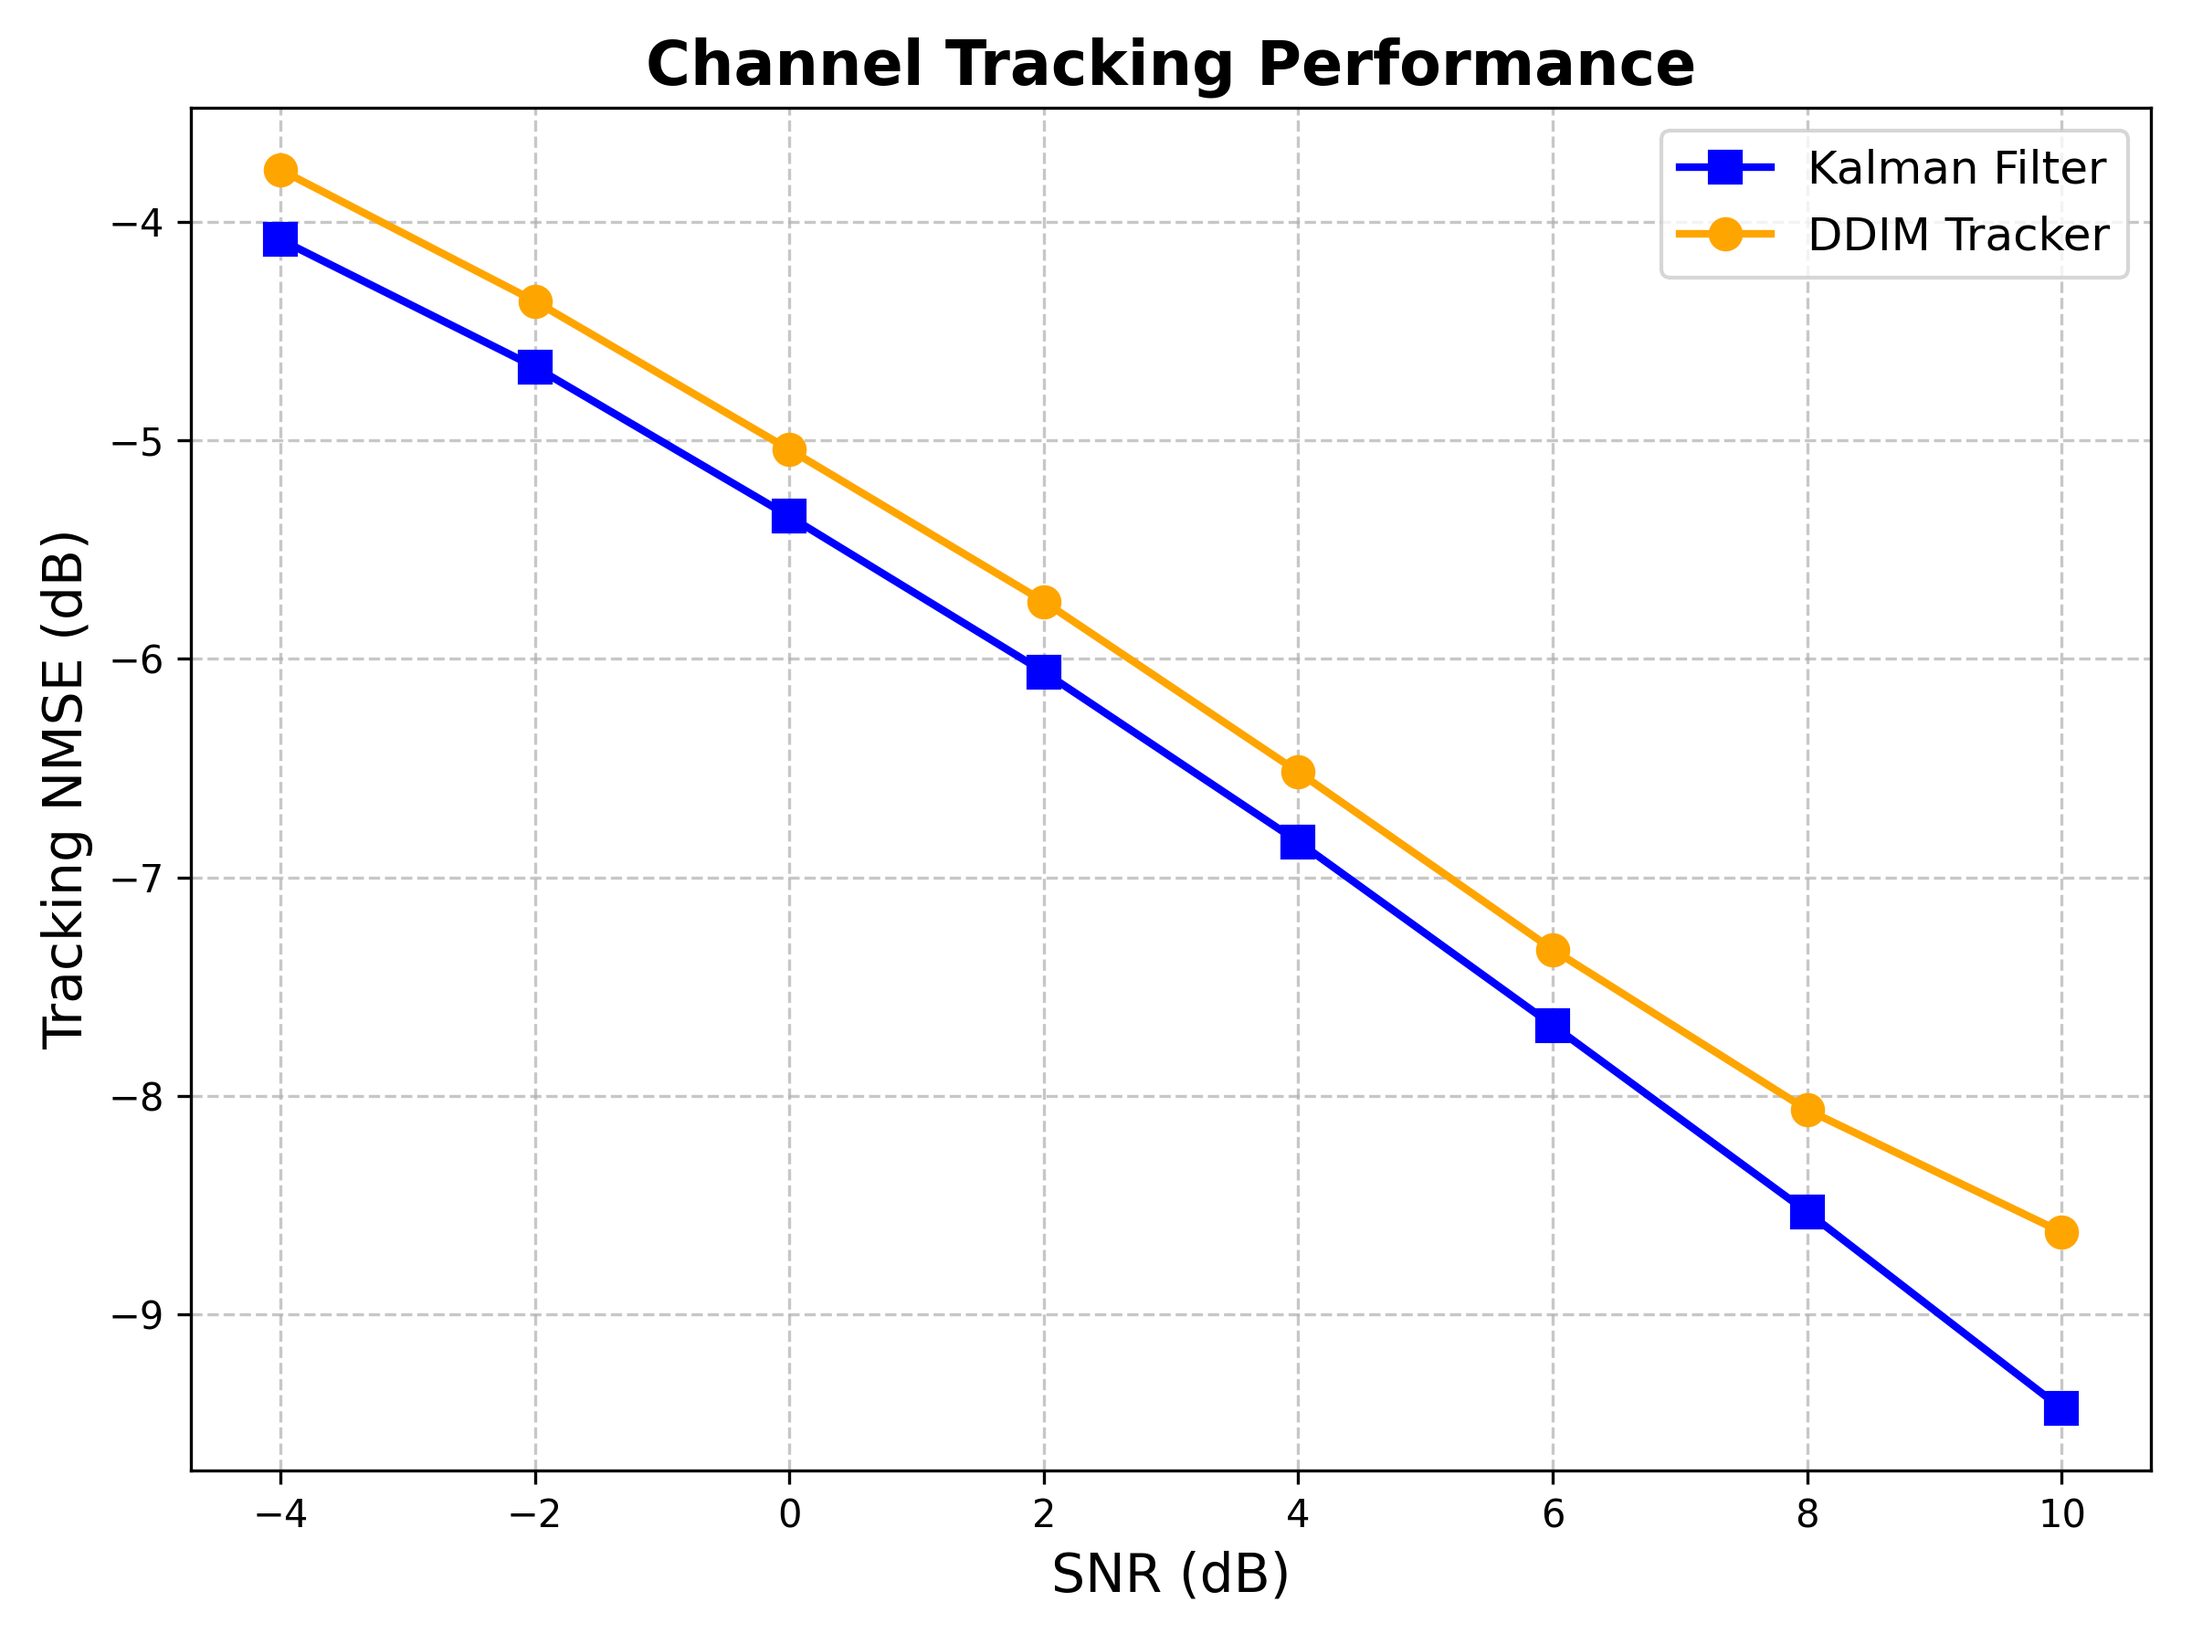
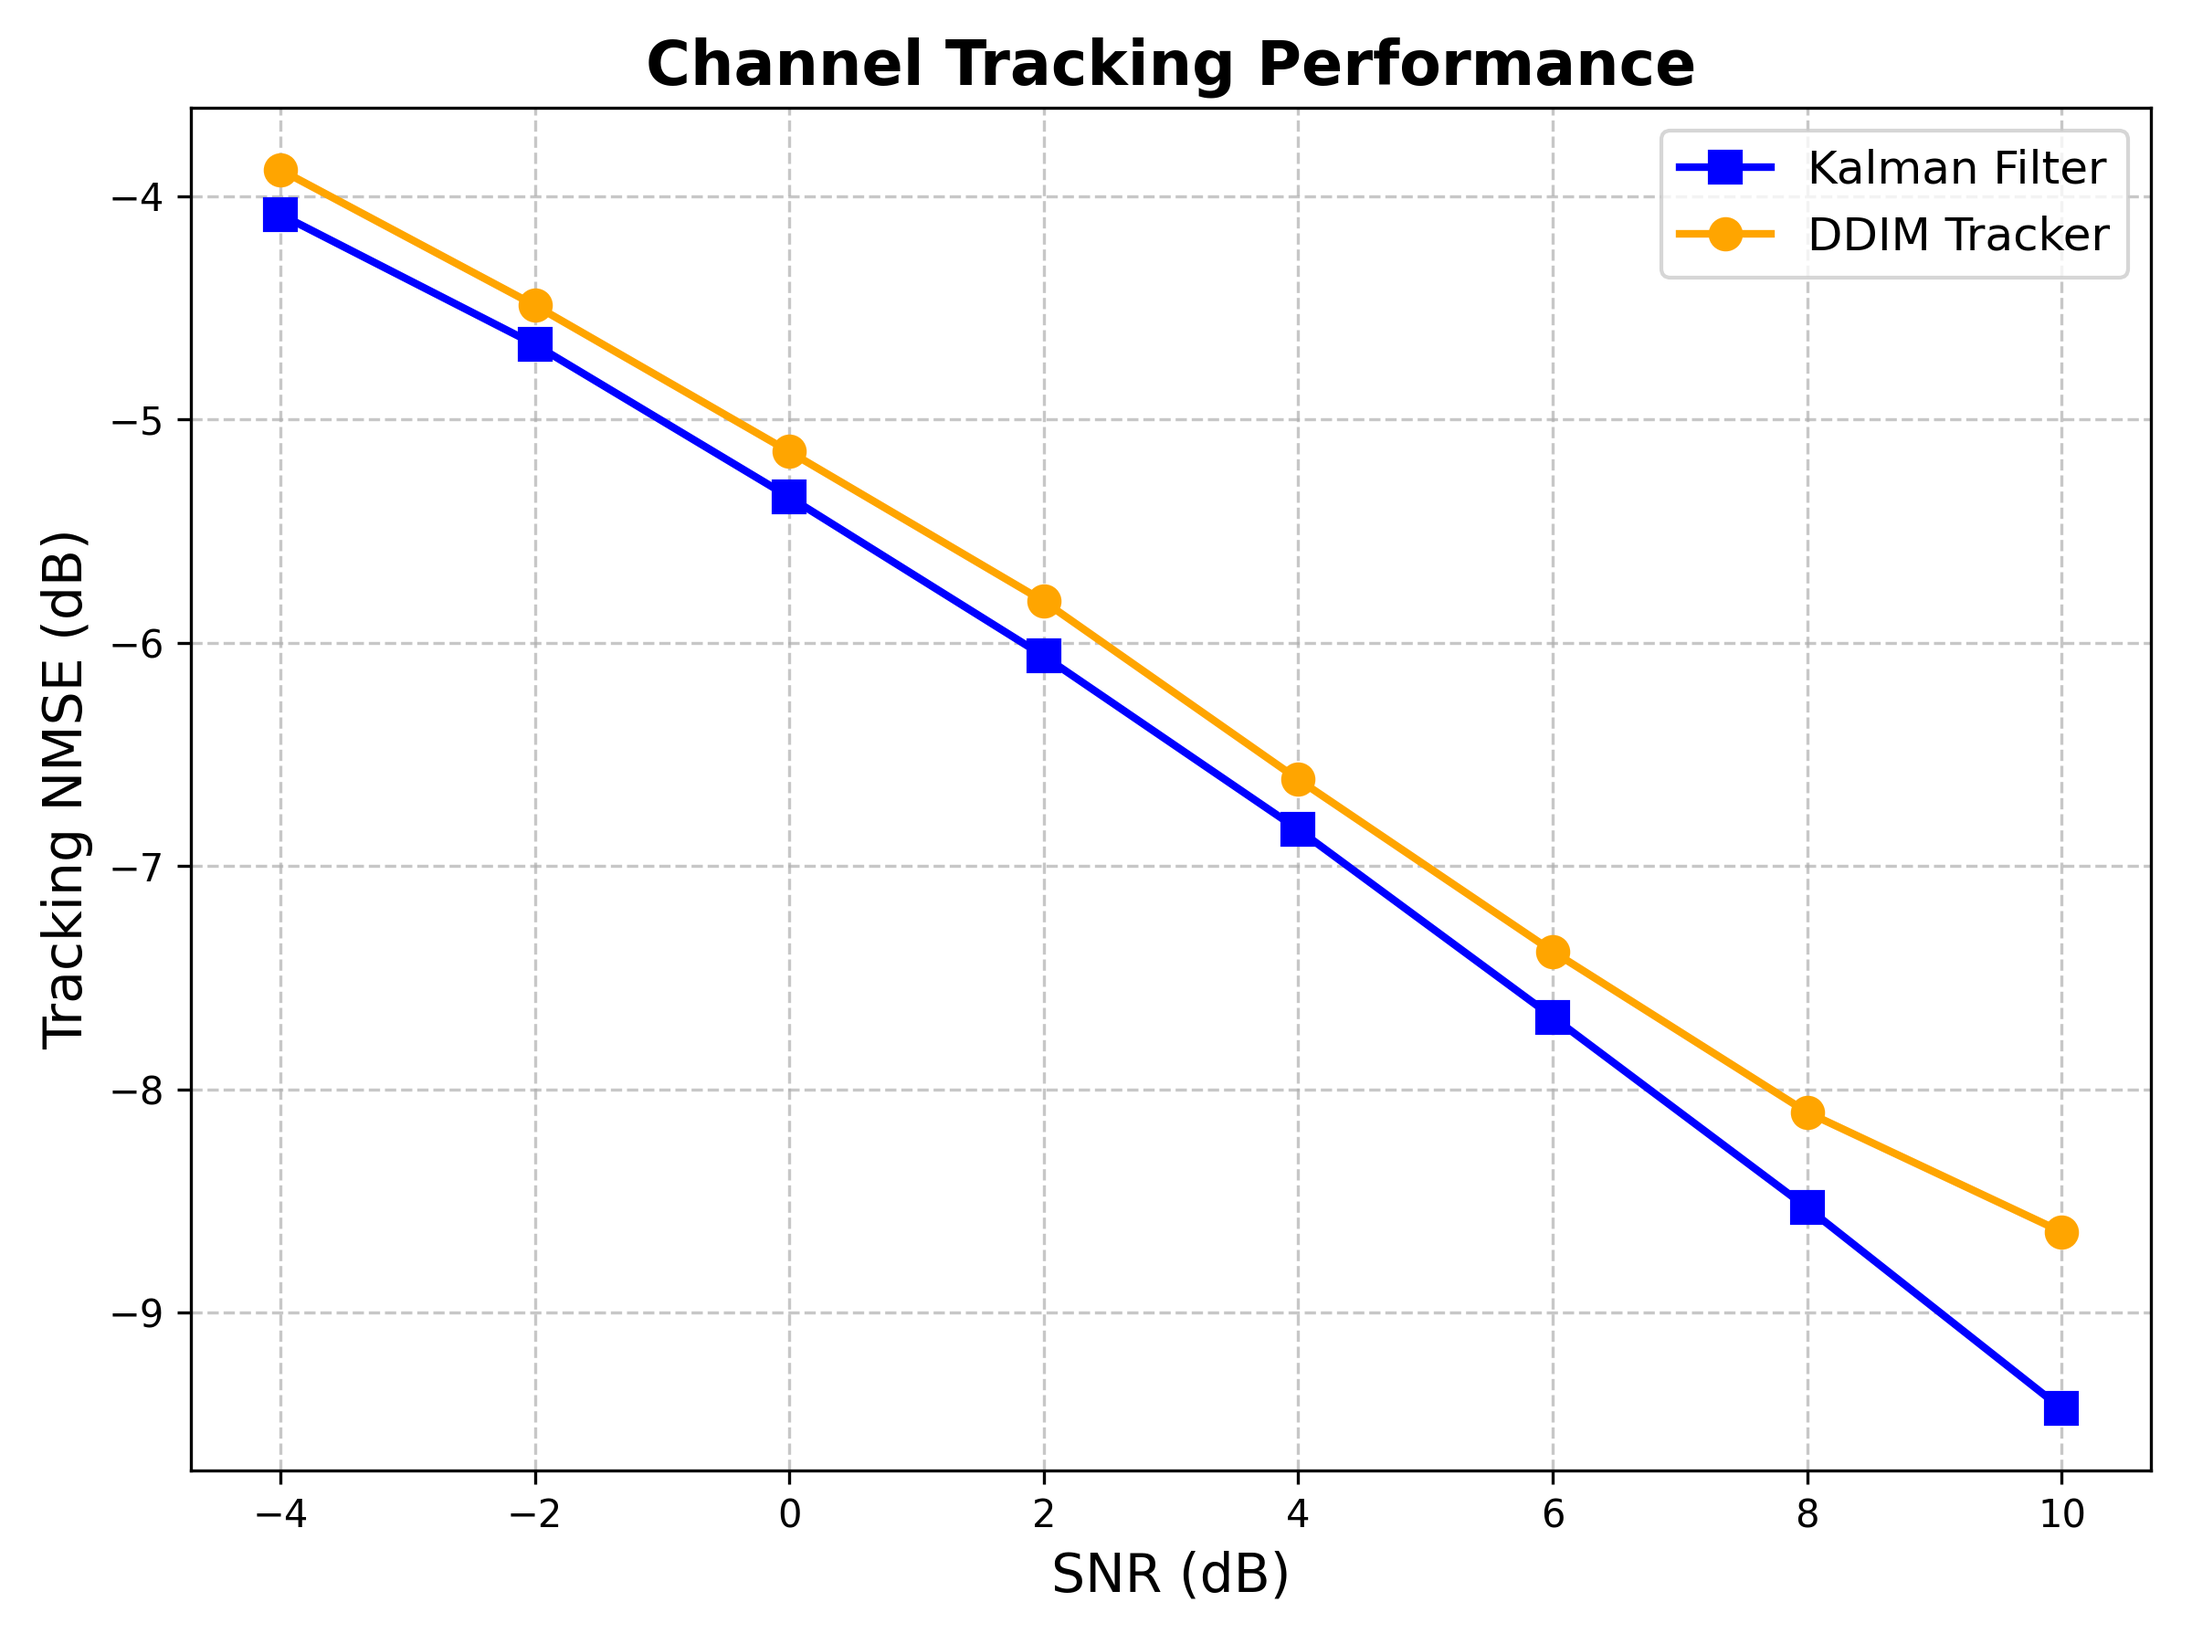
exp: k=20, lambda=0.35, max(., 0.01)

diff --git a/small_scale_channel_tracking/data/clutter/plot_gaussian_verification.py b/small_scale_channel_tracking/data/clutter/plot_gaussian_verification.py
@@ -1,0 +1,87 @@
+import os
+import torch
+import numpy as np
+import matplotlib.pyplot as plt
+import scipy.stats as stats
+
+# ==========================================
+# Configuration
+# ==========================================
+SCRIPT_DIR = os.path.dirname(os.path.abspath(__file__))
+# Points to your newly generated PyTorch tensor dataset
+DATASET_PATH = os.path.join(SCRIPT_DIR, "training_testing_dataset", "x0_12GHz_8x8Tx_1x1Rx_1000000samples_rT38.pt")
+
+def plot_distribution_verification(complex_data):
+    """
+    Plots the empirical histogram of the Real and Imaginary data against theoretical Gaussian curves.
+    """
+    print("Calculating statistics and generating plots...")
+    
+    # Extract components
+    real_part = np.real(complex_data)
+    imag_part = np.imag(complex_data)
+
+    # Create a wide figure for two plots side-by-side
+    fig, axes = plt.subplots(1, 2, figsize=(14, 6))
+
+    # ---------------------------------------------------------
+    # Plot 1: The Real Part vs. Theoretical Gaussian
+    # ---------------------------------------------------------
+    ax1 = axes[0]
+    ax1.hist(real_part, bins=150, density=True, alpha=0.6, color='orange', label='Data distribution (Real)')
+    
+    # Fit and draw the Gaussian curve
+    mu_real, std_real = stats.norm.fit(real_part)
+    xmin_r, xmax_r = ax1.get_xlim()
+    x_axis_r = np.linspace(xmin_r, xmax_r, 200)
+    ax1.plot(x_axis_r, stats.norm.pdf(x_axis_r, mu_real, std_real), 'r--', linewidth=2.5, 
+             label=f'Gaussian Fit\n($\mu$={mu_real:.4f}, $\sigma$={std_real:.4f})')
+    
+    ax1.set_title(f'Real Part Distribution', fontsize=14, fontweight='bold')
+    ax1.set_xlabel('Value', fontsize=12)
+    ax1.set_ylabel('Probability Density', fontsize=12)
+    ax1.legend(fontsize=11)
+    ax1.grid(True, alpha=0.3)
+
+    # ---------------------------------------------------------
+    # Plot 2: The Imaginary Part vs. Theoretical Gaussian
+    # ---------------------------------------------------------
+    ax2 = axes[1]
+    ax2.hist(imag_part, bins=150, density=True, alpha=0.6, color='dodgerblue', label='Data distribution (Imag)')
+    
+    # Fit and draw the Gaussian curve
+    mu_imag, std_imag = stats.norm.fit(imag_part)
+    xmin_i, xmax_i = ax2.get_xlim()
+    x_axis_i = np.linspace(xmin_i, xmax_i, 200)
+    ax2.plot(x_axis_i, stats.norm.pdf(x_axis_i, mu_imag, std_imag), 'r--', linewidth=2.5, 
+             label=f'Gaussian Fit\n($\mu$={mu_imag:.4f}, $\sigma$={std_imag:.4f})')
+
+    ax2.set_title(f'Imaginary Part Distribution', fontsize=14, fontweight='bold')
+    ax2.set_xlabel('Value', fontsize=12)
+    ax2.set_ylabel('Probability Density', fontsize=12)
+    ax2.legend(fontsize=11)
+    ax2.grid(True, alpha=0.3)
+
+    # Save the output to the exact same directory as the script
+    plt.tight_layout()
+    output_filename = os.path.join(SCRIPT_DIR, 'distribution_verification.png')
+    plt.savefig(output_filename, dpi=300)
+    print(f"\nSuccess! Plot saved directly to: {output_filename}")
+
+def main():
+    if not os.path.exists(DATASET_PATH):
+        print(f"Error: Could not find dataset at {DATASET_PATH}")
+        return
+        
+    print(f"Loading dataset from {DATASET_PATH}...")
+    x0_tensor = torch.load(DATASET_PATH)
+    
+    # Extract Mode 0 (the strongest mode) for visualization
+    # mode_idx = 10
+    # x0_mode = x0_tensor[:, mode_idx].numpy()
+    x0_mode = x0_tensor.mean(dim=1).numpy()
+    
+    plot_distribution_verification(x0_mode)
+
+if __name__ == "__main__":
+    main()

diff --git a/small_scale_channel_tracking/main_DDIM_tracker.py b/small_scale_channel_tracking/main_DDIM_tracker.py
@@ -37,8 +37,8 @@ NUM_SAMPLING_STEPS = 1000
 # K_START defines how much noise to add to the KF prediction. 
 # For rho=0.995 (very accurate prediction), a small value (15) is perfect. 
 # If tracking faster users (e.g. rho=0.8), you would increase this.
-K_START = 100
-GUIDANCE_LAMBDA = 0.24
+K_START = 20
+GUIDANCE_LAMBDA = 0.35
 # -----------------------------------
 
 MODEL_WEIGHT_FILE_NAME = f"Tracker_DDIM_{FREQ_GHZ}GHz_rT{R_T}_{MODEL_TYPE}_lr{LR:.0e}.pth"
@@ -92,7 +92,7 @@ elif MODE == 'test':
     from diffusion.ddim_sampler_tracker import ddim_tracking_sampler
     from models.epsnet_mlp import EpsNetMLP
     
-    print("\n[Info] Initializing Tracking Inference Stage...")
+    # print("\n[Info] Initializing Tracking Inference Stage...")
     
     # 1. Load Trained Model
     weights_path = os.path.join(script_dir, "weights", MODEL_WEIGHT_FILE_NAME)
@@ -159,8 +159,8 @@ elif MODE == 'test':
         
         # print(f"  SNR {snr:2d} dB | DDIM Tracking NMSE: {nmse_db:6.2f} dB")
         
-    print("\n" + "="*60)
-    print("FINAL TRACKING NMSE RESULTS")
+    # print("\n" + "="*60)
+    # print("FINAL TRACKING NMSE RESULTS")
     print("="*60)
     
     # Format as aligned horizontal arrays
@@ -169,7 +169,7 @@ elif MODE == 'test':
     
     print(f"SNR (dB)  : [ {snr_str} ]")
     print(f"NMSE (dB) : [ {nmse_str} ]")
-    print("="*60 + "\n")
+    print("="*60)
     
     # 5. Save Results
     res_filename = f"NMSE_Tracker_DDIM_{FREQ_GHZ}GHz_rho{RHO:.3f}.mat"
@@ -181,4 +181,4 @@ elif MODE == 'test':
         'x0_nmse': np.array(nmse_results)
     })
     
-    print(f"\n[Success] Tracking Results saved to {res_filename}")
+    # print(f"[Success] Tracking Results saved to {res_filename}")

diff --git a/small_scale_channel_tracking/diffusion/ddim_sampler_tracker.py b/small_scale_channel_tracking/diffusion/ddim_sampler_tracker.py
@@ -19,6 +19,7 @@ def ddim_tracking_sampler(y_obs_complex, M_complex, x0_tau_complex, rho,
     B = y_obs_complex.shape[0]
     # Calculate noise variance corresponding to current SNR
     sigma_n2 = sig_power * (10 ** (-snr_db / 10.0))
+    max_thred = 0.01
     
     # 1. Physical Prediction
     x_pred_cplx = rho * x0_tau_complex
@@ -65,7 +66,7 @@ def ddim_tracking_sampler(y_obs_complex, M_complex, x0_tau_complex, rho,
             
             # Gradient: M^H * (y - M * x0) / sigma^2
             err_cplx = y_obs_complex - torch.matmul(x0_hat_phys_cplx, M_complex.t())
-            grad_cplx = torch.matmul(err_cplx, M_complex.conj()) / max(sigma_n2, 0.005)
+            grad_cplx = torch.matmul(err_cplx, M_complex.conj()) / max(sigma_n2, max_thred)
             
             # Map complex gradient back to normalized real space (Chain Rule)
             grad_real = complex_to_real_concat(grad_cplx)
@@ -91,7 +92,7 @@ def ddim_tracking_sampler(y_obs_complex, M_complex, x0_tau_complex, rho,
         x0_hat_phys_real = x0_hat_final_norm * data_std + data_mean
         x0_hat_phys_cplx = real_to_complex_concat(x0_hat_phys_real)
         err_cplx = y_obs_complex - torch.matmul(x0_hat_phys_cplx, M_complex.t())
-        grad_cplx = torch.matmul(err_cplx, M_complex.conj()) / max(sigma_n2, 0.005)
+        grad_cplx = torch.matmul(err_cplx, M_complex.conj()) / max(sigma_n2, max_thred)
         grad_norm = complex_to_real_concat(grad_cplx) * data_std
         
         x0_hat_final_guided_norm = x0_hat_final_norm + guidance_lambda * grad_norm
